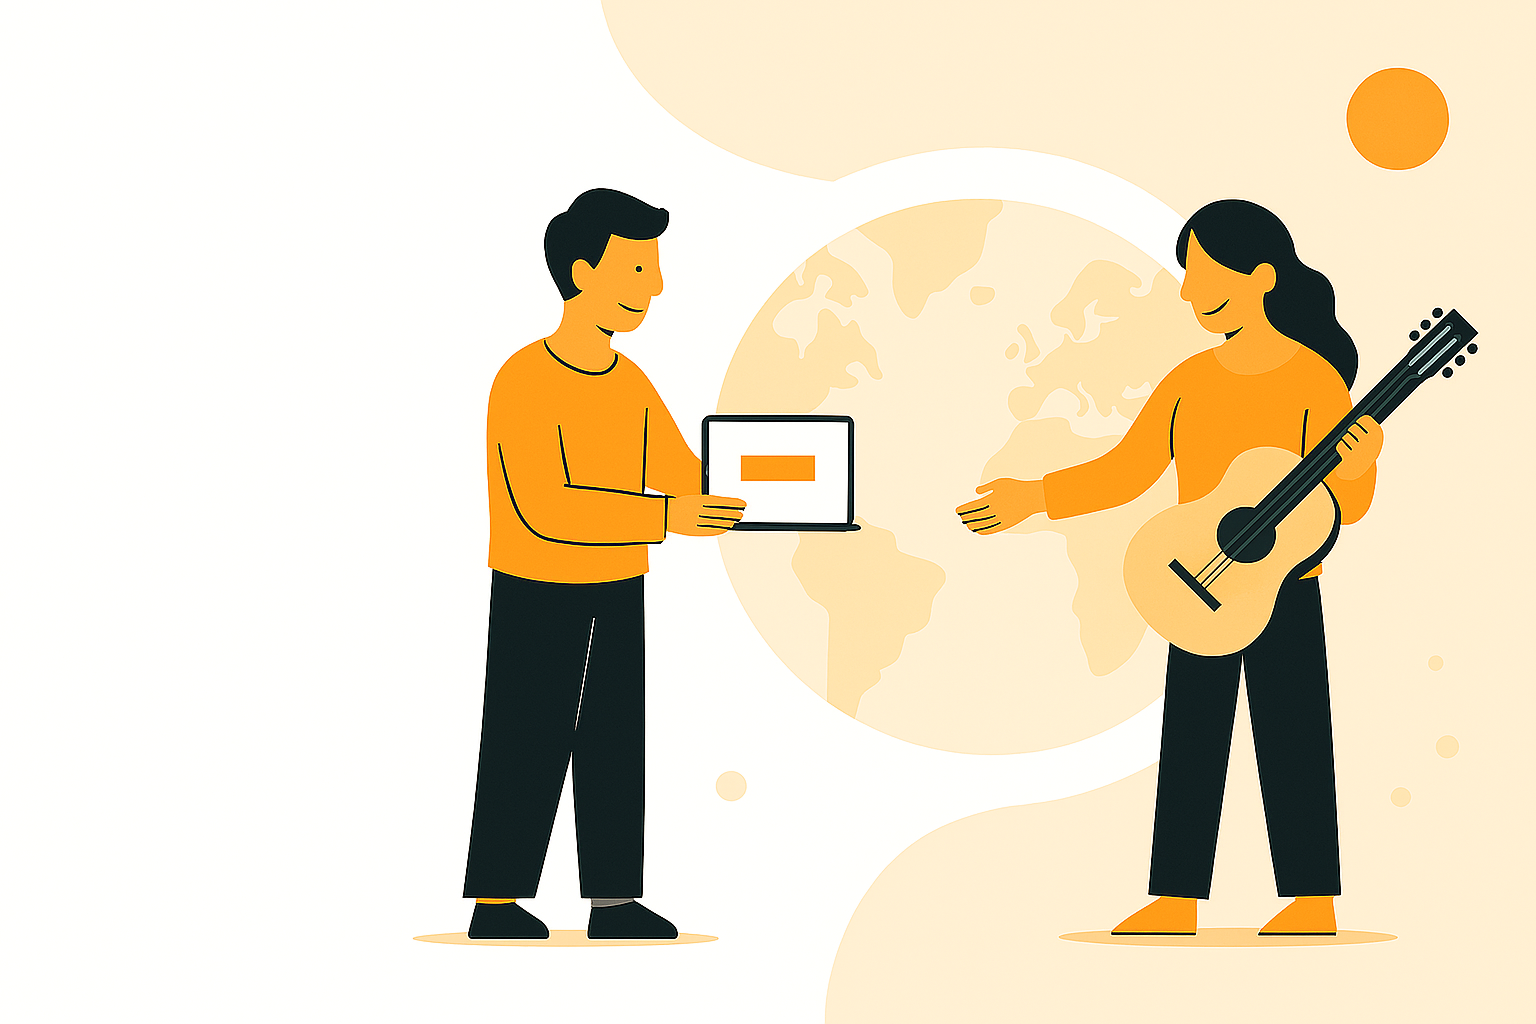
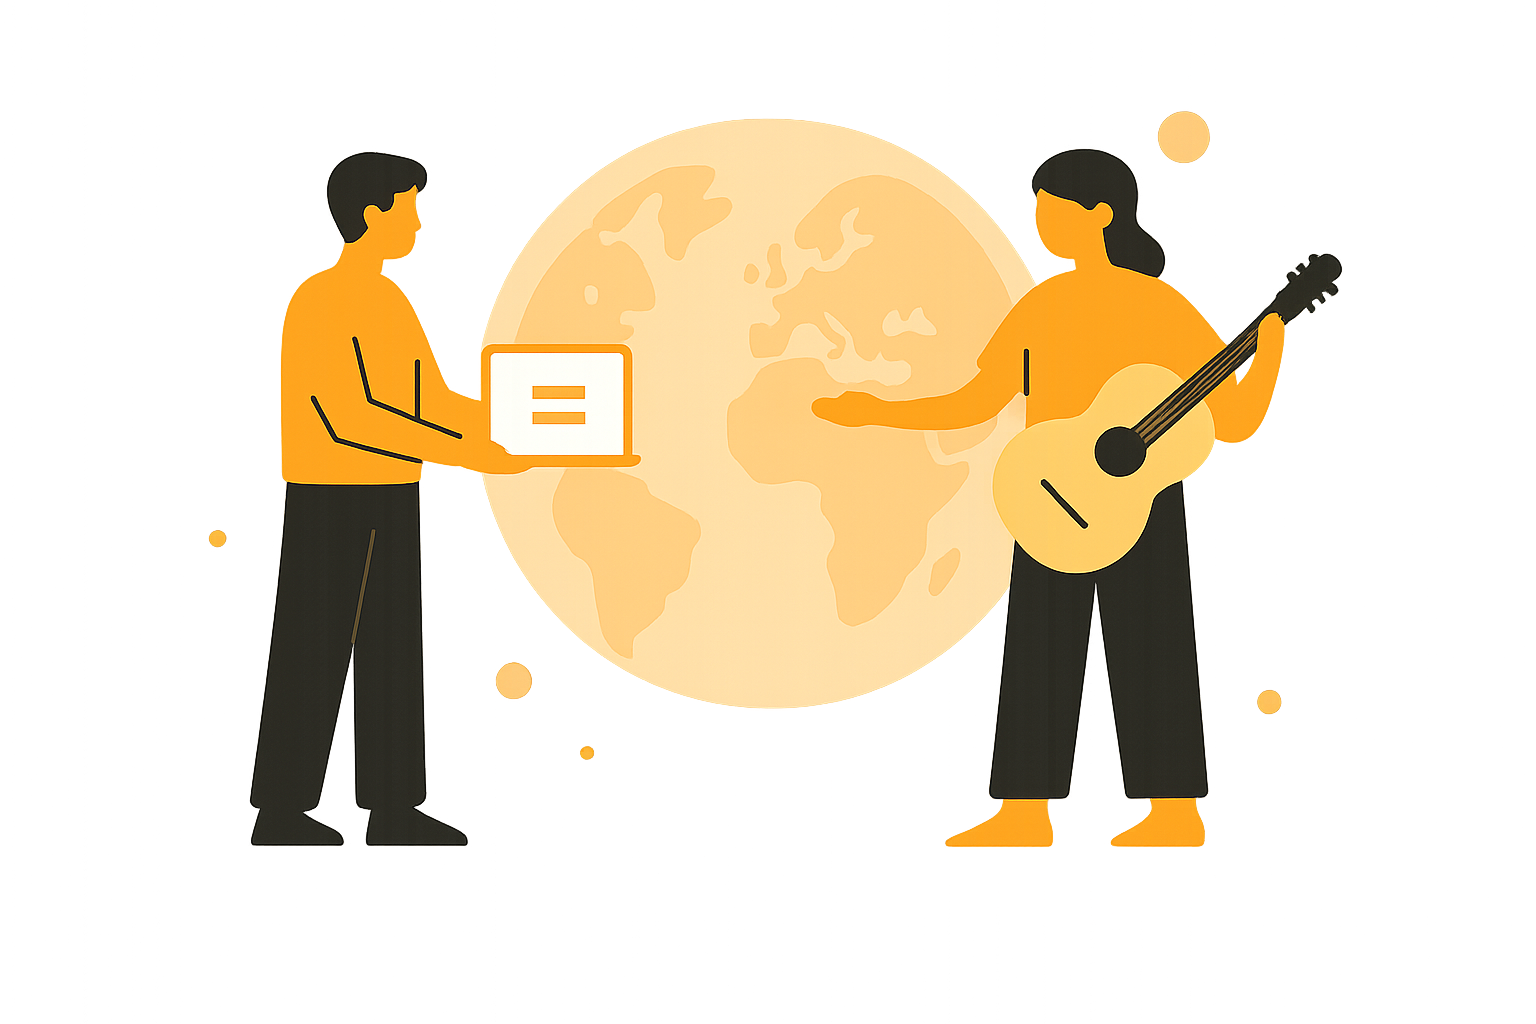
Replace character illustrations with an image in the Hero component

diff --git a/src/components/landing/Hero.tsx b/src/components/landing/Hero.tsx
@@ -1,3 +1,5 @@
+import Image from "next/image";
+
 export default function Hero() {
   return (
     <section className="relative bg-gradient-to-br from-orange-100 via-orange-50 to-orange-200 min-h-screen overflow-hidden">
@@ -42,73 +44,14 @@ export default function Hero() {
             Hemen Keşfet
           </button>
         </div>
-
-        <div className="flex-1 flex justify-center lg:justify-end mb-16 lg:mb-0">
-          <div className="relative">
-            {/* Character illustrations */}
-            <div className="flex items-center space-x-8">
-              {/* Left character */}
-              <div className="relative">
-                <div className="w-32 h-40 bg-orange-500 rounded-t-full relative">
-                  <div className="absolute top-4 left-1/2 transform -translate-x-1/2 w-6 h-6 bg-orange-700 rounded-full"></div>
-                  <div className="absolute bottom-8 left-1/2 transform -translate-x-1/2 w-16 h-16 bg-orange-400 rounded-lg flex items-center justify-center">
-                    <div className="w-8 h-6 bg-white rounded"></div>
-                  </div>
-                </div>
-                <div className="w-32 h-24 bg-orange-600 rounded-b-lg"></div>
-              </div>
-
-              {/* Globe in the middle */}
-              <div className="relative z-10">
-                <div className="w-40 h-40 bg-gradient-to-br from-orange-200 to-orange-300 rounded-full flex items-center justify-center shadow-lg">
-                  <div className="w-32 h-32 bg-gradient-to-br from-orange-100 to-orange-200 rounded-full flex items-center justify-center">
-                    <svg
-                      className="w-24 h-24 text-orange-600"
-                      fill="currentColor"
-                      viewBox="0 0 100 100"
-                    >
-                      <circle
-                        cx="50"
-                        cy="50"
-                        r="45"
-                        fill="none"
-                        stroke="currentColor"
-                        strokeWidth="2"
-                      />
-                      <path
-                        d="M20 50 Q35 30 50 50 Q65 70 80 50"
-                        stroke="currentColor"
-                        strokeWidth="2"
-                        fill="none"
-                      />
-                      <path
-                        d="M50 20 Q30 35 50 50 Q70 65 50 80"
-                        stroke="currentColor"
-                        strokeWidth="2"
-                        fill="none"
-                      />
-                      <circle cx="35" cy="35" r="3" fill="currentColor" />
-                      <circle cx="65" cy="35" r="2" fill="currentColor" />
-                      <circle cx="35" cy="65" r="2" fill="currentColor" />
-                      <circle cx="65" cy="65" r="3" fill="currentColor" />
-                    </svg>
-                  </div>
-                </div>
-              </div>
-
-              {/* Right character */}
-              <div className="relative">
-                <div className="w-32 h-40 bg-orange-500 rounded-t-full relative">
-                  <div className="absolute top-4 left-1/2 transform -translate-x-1/2 w-6 h-6 bg-orange-700 rounded-full"></div>
-                  <div className="absolute top-8 right-2 w-20 h-4 bg-orange-700 rounded-full transform rotate-12"></div>
-                  <div className="absolute bottom-8 left-1/2 transform -translate-x-1/2 w-16 h-16 bg-orange-400 rounded-lg flex items-center justify-center">
-                    <div className="w-2 h-8 bg-orange-700 rounded"></div>
-                  </div>
-                </div>
-                <div className="w-32 h-24 bg-orange-600 rounded-b-lg"></div>
-              </div>
-            </div>
-          </div>
+        <div className="flex-1 flex justify-center lg:justify-end">
+          <Image
+            src={"/images/hero.png"}
+            alt="Hero Image"
+            width={500}
+            height={500}
+            className="w-full max-w-xs sm:max-w-sm md:max-w-md lg:max-w-lg xl:max-w-xl h-auto object-contain"
+          />
         </div>
       </div>
     </section>
